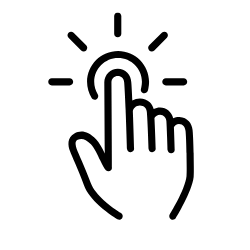
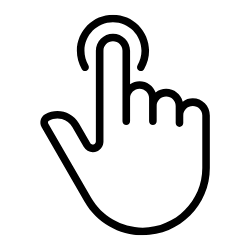
Commit de alteração de metodo de instrução de touch

Changed region(s): [[0.14, 0.028, 0.84, 0.952], [0.196, 0.308, 0.308, 0.364]]

diff --git a/styles.css b/styles.css
@@ -31,6 +31,7 @@ body{
     border-radius: 10px;
     background-color: #565656;
     transition: .2s ease-in-out;
+    cursor: pointer;
 }
 .imgLanguage {
     width: 40px;
@@ -60,6 +61,24 @@ body{
     height: 150px;
     box-shadow: 0 0px 500px 50px #000000;
     transition: .5s ease-in-out;
+}
+.scrollsubtitlepage2 {
+    position: absolute;
+    bottom: 25%;
+    margin: 0 auto;
+    width: 60px;
+    animation: touch 1s infinite alternate .8s;
+}
+@keyframes touch {
+    from {
+        transform: translateX(10px);
+        
+    }
+    to {
+        transform: translateX(-10px);
+        transform: rotate(-10deg);
+    }
+    
 }
 body, html {
     overflow: hidden;
@@ -612,9 +631,7 @@ button:active {
             box-shadow: 0px 0px 5px 5px #04e39a;
         }
     }
-
     /* ----------------------- Página 2--------------------- */
-
     .card_2_title_styles {
         color: #04e39a;
         z-index: 100;
@@ -628,7 +645,6 @@ button:active {
         margin-top: 5%;
         border-radius: 999px;
     }
-
     .cards_3_collunms {
         display: flex;
         margin-top: 3%;
@@ -642,13 +658,11 @@ button:active {
     
         padding-left: 75%; /* Dá espaço antes do primeiro item */
         padding-right: 75%; /* Dá espaço após o último item */
-        gap: 10vw;
+        gap: 7vw;
     
         mask-image: linear-gradient(to right, transparent, black 5%, black 95%, transparent);
         -webkit-mask-image: linear-gradient(to right, transparent, black 5%, black 95%, transparent);
     }
-    
-    
     .cards_3_collunms > * {
         scroll-snap-align: center;
         flex-shrink: 0;
@@ -664,23 +678,7 @@ button:active {
         margin: 10% auto;
         flex-direction: column;
     }
-    .card1 {
-        animation: touchInstige 1s ease-out infinite alternate;
-
-    }
-
-    @keyframes touchInstige {
-        from {
-        }
-        to {
-            transform: translateX(-10px);
-            
-        }
-        
-    }
 /* --------------------- Página 3 ------------------------ */
-
-
 .priceTitle {
     z-index: 100;
     color: #fee39a;
@@ -691,10 +689,14 @@ button:active {
     background: linear-gradient(to right, transparent, transparent, #193528);
     border: 1px;
     border-radius: 999px;
-    margin-bottom: 5rem;
+    margin-top: 20%;
 }
-
-
+.priceDivValue {
+    margin-top: 10%;
+}
+.titleOrInferiorPage {
+    margin-bottom: 30%;
+}
 /* ------------------------- Página 4 ------------------------ */
 
 .titleSpecialPrice {
@@ -728,7 +730,7 @@ button:active {
     display: flex;
     flex-direction: column;
     background-color: #05564d;
-    width: 90%;
+    width: 99%;
     height: 165px;
     border-radius: 15px;
     border: 1px solid #fefefe;
@@ -737,7 +739,7 @@ button:active {
     display: flex;
     flex-direction: column;
     background-color: #05564d;
-    width: 90%;
+    width: 99%;
     height: 225px;
     border-radius: 15px;
     border: 1px solid #fefefe;
@@ -747,7 +749,7 @@ button:active {
     display: flex;
     flex-direction: column;
     background-color: #05564d;
-    width: 95%;
+    width: 99%;
     height: 400px;
     border-radius: 15px;
     border: 1px solid #fefefe;

diff --git a/index.html b/index.html
@@ -42,6 +42,7 @@
                          tempo de operação e maximiza sua produtividade!" class="textCard">Seu trabalho flui com mais leveza
                              e eficiência. Uma interface intuitiva que reduz o
                               tempo de operação e maximiza sua produtividade!</p>
+                              <img class="scrollsubtitlepage2 activepage" src="Assets/img/touchImgTransition.png">
                     </article>
                     <article alt="Segundo cartão de 3, conteúdo escrito" class="articleStyles">
                         <img role=“presentation” class="card_img" src="Assets/img/imgPacote.png">
@@ -138,6 +139,7 @@
             </div>
         </section>
         <div class="nav-buttons" id="navButtons"></div>
+        
     </article>
 </body>
 <script src="scripts.js"></script>

diff --git a/scripts.js b/scripts.js
@@ -58,3 +58,5 @@ const pages = document.querySelectorAll('.page');
             languageButton.classList.toggle('active');
         }
         
+
+        
